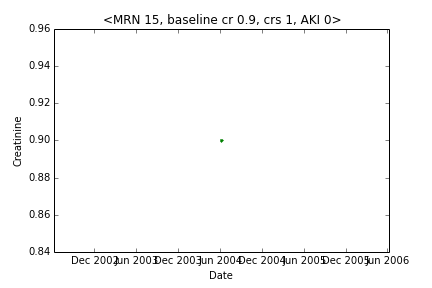
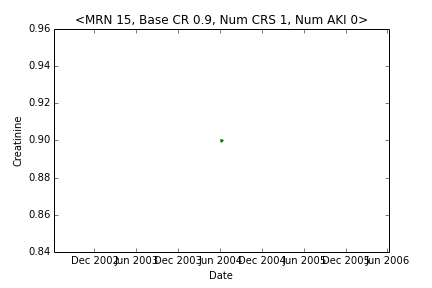
Expands output

Changed region(s): [[0.1806, 0.0312, 0.8426, 0.0938]]

diff --git a/AKIPredictor.py b/AKIPredictor.py
@@ -21,7 +21,7 @@ class Patient(object):
         self.aki = self.data.value[self.data.aki]
  
     def __str__(self): 
-        temp = "<MRN {}, baseline cr {}, crs {}, AKI {}>"\
+        temp = "<MRN {}, Base CR {}, Num CRS {}, Num AKI {}>"\
             .format(self.mrn, self.baseCr, len(self.crs), sum(self.data.aki))
         return temp
 
@@ -128,9 +128,9 @@ def read(files:[str]):
 
 def write():
     global Patients
-    getNumAKI(Patients.keys(), True)
-    getAKIDates(Patients.keys(), True)
-    getPlots(Patients.keys(), True)
+    getNumAKI(Patients.keys(), savetofile = True)
+    getAKIDates(Patients.keys(), savetofile = True)
+    getPlots(Patients.keys(), savetofile = True)
     
 if __name__ == "__main__":
     files = glob.glob("Input/*.csv")
